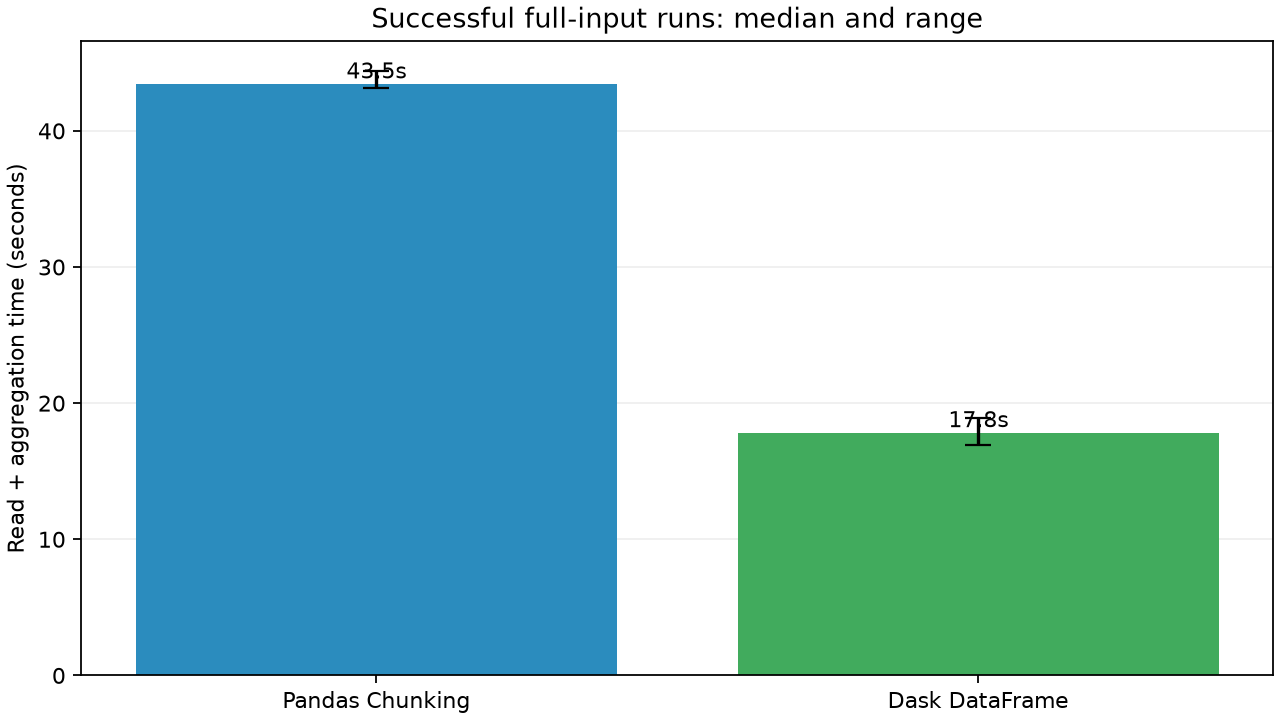
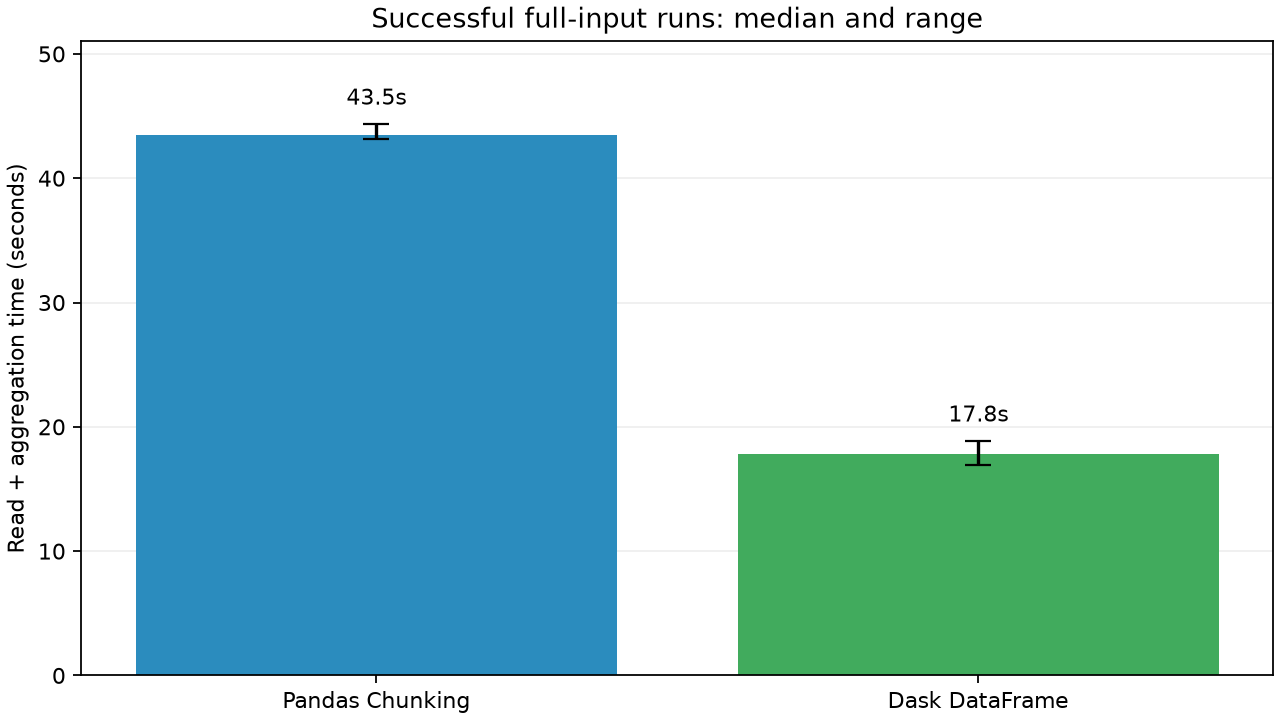
Improve benchmark chart labels and consistent method colors

diff --git a/build_report.py b/build_report.py
@@ -17,14 +17,16 @@ def main():
     grouped={m:[r for r in runs if r['method']==m] for m in ['full','chunks','dask']}
     if not all(grouped.values()): raise ValueError('All three methods must have recorded outcomes.')
     labels={'full':'Standard Pandas','chunks':'Pandas Chunking','dask':'Dask DataFrame'}
+    colors={'full':'#e6550d','chunks':'#2b8cbe','dask':'#41ab5d'}
     figures=ROOT/'figures'; figures.mkdir(exist_ok=True)
     success=[m for m in grouped if any(r['status']=='success' for r in grouped[m])]
     medians=[statistics.median(r['operation_seconds'] for r in grouped[m] if r['status']=='success') for m in success]
     low=[min(r['operation_seconds'] for r in grouped[m] if r['status']=='success') for m in success]
     high=[max(r['operation_seconds'] for r in grouped[m] if r['status']=='success') for m in success]
     fig,ax=plt.subplots(figsize=(8,4.5),layout='constrained')
-    bars=ax.bar([labels[m] for m in success],medians,color=['#2b8cbe','#41ab5d','#756bb1'][:len(success)],yerr=[[a-b for a,b in zip(medians,low)],[a-b for a,b in zip(high,medians)]],capsize=6)
-    for bar,value in zip(bars,medians): ax.text(bar.get_x()+bar.get_width()/2,value,f'{value:.1f}s',ha='center',va='bottom')
+    bars=ax.bar([labels[m] for m in success],medians,color=[colors[m] for m in success],yerr=[[a-b for a,b in zip(medians,low)],[a-b for a,b in zip(high,medians)]],capsize=6)
+    for bar,value,upper in zip(bars,medians,high): ax.text(bar.get_x()+bar.get_width()/2,upper+max(high)*.025,f'{value:.1f}s',ha='center',va='bottom')
+    ax.set_ylim(0,max(high)*1.15)
     ax.set_ylabel('Read + aggregation time (seconds)'); ax.set_title('Successful full-input runs: median and range'); ax.grid(axis='y',alpha=.2); ax.set_axisbelow(True)
     fig.savefig(figures/'execution_time.png',dpi=160); plt.close(fig)
     fig,ax=plt.subplots(figsize=(8,4.5),layout='constrained')
@@ -36,7 +38,7 @@ def main():
     fig,ax=plt.subplots(figsize=(9,4.5),layout='constrained')
     for method,group in grouped.items():
         with (ROOT/group[0]['profile']['samples_file']).open(newline='',encoding='utf-8') as f: samples=list(csv.DictReader(f))
-        ax.plot([float(x['elapsed_seconds']) for x in samples],[int(x['process_tree_rss_bytes'])/1024**3 for x in samples],label=labels[method],linewidth=1.4)
+        ax.plot([float(x['elapsed_seconds']) for x in samples],[int(x['process_tree_rss_bytes'])/1024**3 for x in samples],label=labels[method],color=colors[method],linewidth=1.4)
     ax.set_xlabel('Worker wall-clock time including imports (seconds)'); ax.set_ylabel('Sampled process-tree RSS (GiB)'); ax.set_title('Memory traces: first recorded full-input run'); ax.legend(); ax.grid(alpha=.2)
     fig.savefig(figures/'memory_over_time.png',dpi=160); plt.close(fig)
     dask_run=next(r for r in grouped['dask'] if r['status']=='success'); graph=dask_run['graph']
@@ -46,7 +48,7 @@ def main():
     axes[0].set_title('Actual Dask task graph size'); axes[0].set_ylabel('Tasks')
     for i,value in enumerate([graph['tasks_before'],graph['tasks_after']]): axes[0].text(i,value,str(value),ha='center',va='bottom')
     axes[1].axis('off')
-    for y,text in [(.8,f'CSV: {graph["partitions"]} byte partitions'),(.5,'Partition statistics: rows, sums, counts'),(.2,'Tree reduction -> one small result')]:
+    for y,text in [(.8,f'CSV: {graph["partitions"]} partitions'),(.5,'Partition statistics: rows, sums, counts'),(.2,'Tree reduction -> one small result')]:
         axes[1].text(.5,y,text,ha='center',va='center',bbox={'boxstyle':'round,pad=.7','facecolor':'#e5f5e0','edgecolor':'#238b45'},fontsize=10)
     for start,end in [(.71,.58),(.41,.28)]: axes[1].annotate('',xy=(.5,end),xytext=(.5,start),arrowprops={'arrowstyle':'->','lw':1.5})
     axes[1].set_title('Execution structure (schematic)')
